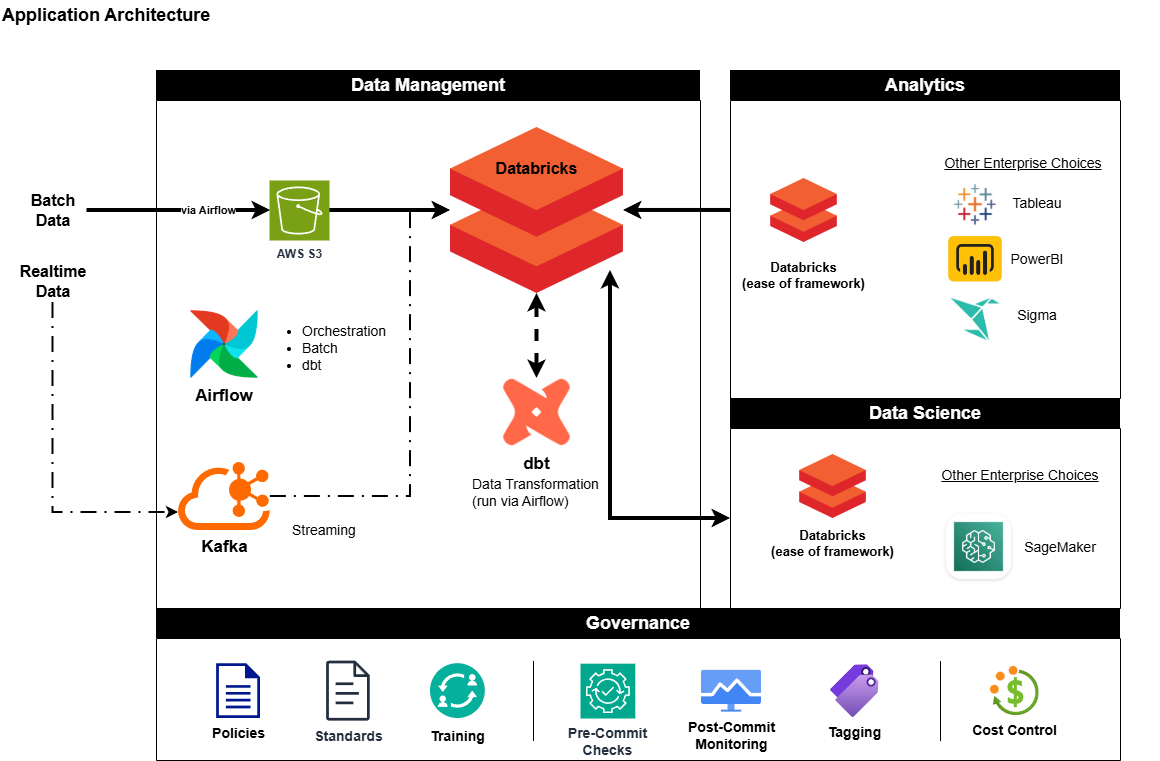
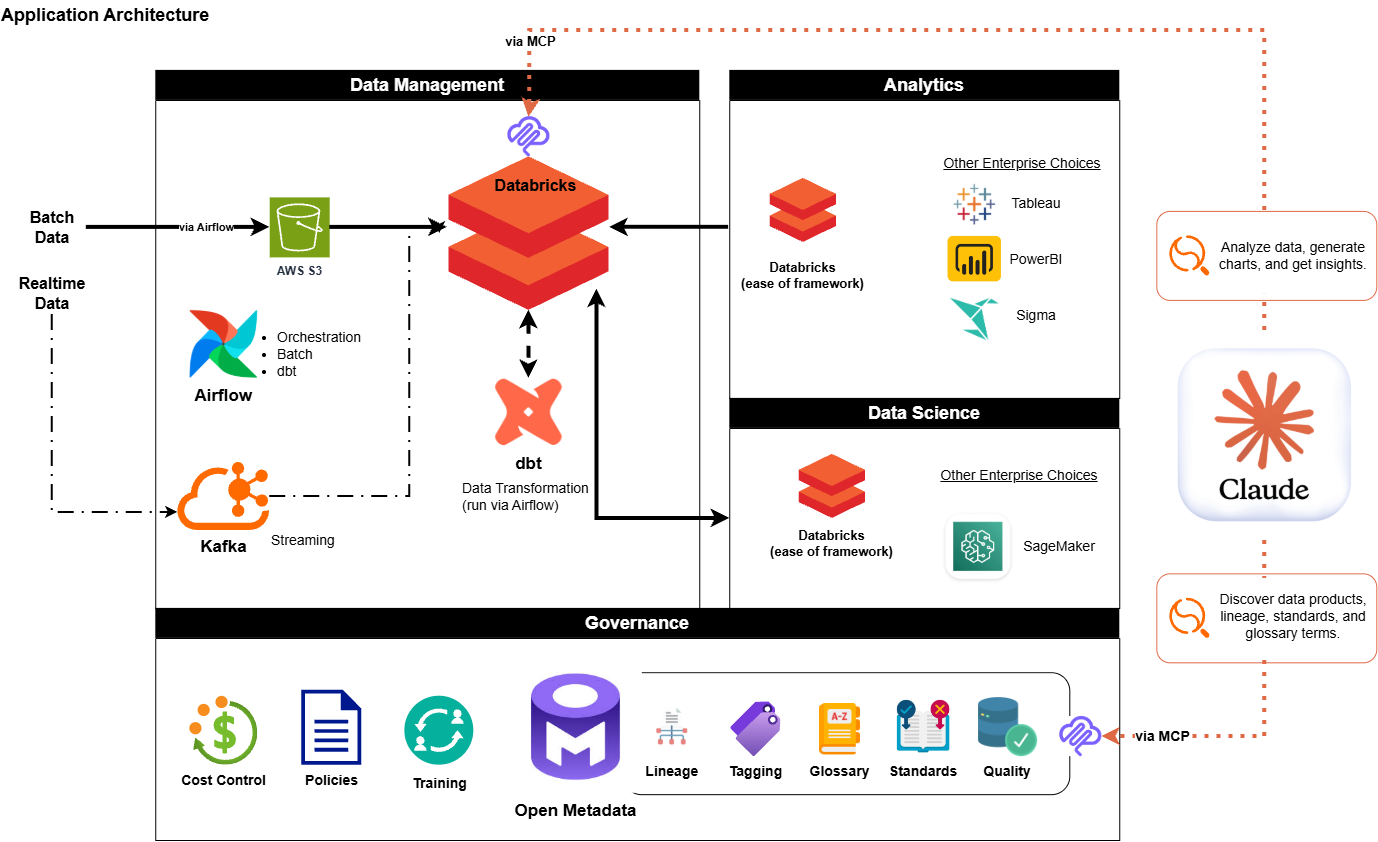
docs(github) Updates to security and added Claude
adding claude to architecture as it connects via mcp into open metadata and databricks.

diff --git a/docs/privacy-and-security.md b/docs/privacy-and-security.md
@@ -1,0 +1,261 @@
+# Privacy & Security
+
+This framework demonstrates security patterns at the architectural level while
+running on free-tier infrastructure. That combination creates real gaps, and
+they are documented here rather than implied away.
+
+The distinction that matters throughout: **controls that are implemented**,
+**controls that are designed but not implementable on the current tier**, and
+**controls that are genuinely absent**. An enterprise deployment must close the
+second and third categories before handling production data.
+
+---
+
+## Summary of Controls
+
+| Domain | Control | Status |
+|---|---|---|
+| Least privilege | Scoped IAM policies per identity, single bucket and prefix | Implemented |
+| Least privilege | Read-only access for the analytics platform | Implemented |
+| Least privilege | Medallion layers as separate catalogs, granted independently | Implemented |
+| Least privilege | Grants defined as code | Gap — no account API on free tier |
+| Credentials | No secrets in version control; scanning and pre-commit hooks | Implemented |
+| Credentials | No secrets in application code; connections referenced by ID | Implemented |
+| Credentials | No secrets in Terraform state; keys created out of band | Implemented |
+| Credentials | Assumed role with external ID for platform-to-storage access | Implemented |
+| Credentials | Finite token lifetimes | Implemented |
+| Credentials | Secrets manager with automated rotation | Gap — not yet adopted |
+| Network | No public ingress; all local services bound to the host | Implemented |
+| Network | S3 public access blocked, encrypted at rest, versioned | Implemented |
+| Network | IP allow-listing on the data platform | Gap — no network config on free tier |
+| Network | Private connectivity for warehouse traffic | Gap — enterprise tier only |
+| Identity | Token-based access with expiry, no passwords | Implemented |
+| Identity | Federated SSO through an identity provider | Gap — no IdP integration (expensive)|
+| Identity | Multi-factor authentication | Gap — single factor only |
+| Identity | Service principals for automation | Gap — unavailable on free tier |
+| Data protection | Classification applied as catalog metadata, through reviewed code | Implemented |
+| Data protection | Row-level lineage to source file and load time | Implemented |
+| Data protection | Encryption at rest and in transit | Implemented |
+| Data protection | Column masking, row filtering, tokenization | Gap — no sensitive data present |
+
+## Summary of Gaps
+
+Ordered by what an enterprise deployment must address first.
+
+| # | Gap | Cause | Resolution |
+|---|---|---|---|
+| 1 | No IdP or MFA | Local, single-operator | Federate through Okta or Entra ID |
+| 2 | Databricks open to any network | Free tier has no network config | IP access lists, PrivateLink |
+| 3 | Long-lived AWS keys | Docker has no cloud identity | Deploy to a platform with instance roles |
+| 4 | Human identity used for automation | No service principals on free tier | Service principal with OAuth |
+| 5 | No masking, filtering, or tokenization | No sensitive data present | Attach policies to existing tags |
+| 6 | Grants applied by hand | No account API on free tier | Databricks Terraform provider |
+| 7 | No secrets manager | Not yet adopted | Airflow secrets backend |
+| 8 | No credential rotation | Manual process | Scheduled rotation, short-lived tokens |
+
+**Nothing in this framework should handle production or personal data without
+resolving items 1 through 5.** The architectural patterns are sound and the
+governance metadata is in place. The enforcement layer is what is missing, and
+it is missing because the free tier does not expose it — not because it was
+overlooked.
+
+The sections below detail each domain.
+
+---
+
+## Least-Privilege Access
+
+Access is granted by function, not by convenience. Every identity in the
+framework holds the narrowest set of permissions that lets it do its job.
+
+### Implemented
+
+| Identity | Grants | Scope |
+|---|---|---|
+| Airflow → AWS | `GetObject`, `PutObject`, `ListBucket` | Landing prefixes of one bucket |
+| Databricks → AWS | `GetObject`, `GetObjectVersion`, `ListBucket` | Read-only, landing prefixes only |
+| Databricks compute | `USE CATALOG`, `USE SCHEMA`, `SELECT`, `MODIFY` | Named catalogs and schemas |
+| External locations | `READ FILES` | Scoped to a single S3 prefix |
+
+Two design choices reinforce this:
+
+- **`s3:ListBucket` is constrained by prefix condition**, not granted at bucket
+  scope. Listing is a bucket-level action in IAM, so a `StringLike` condition
+  on `s3:prefix` is the only way to narrow it.
+- **Medallion layers are separate catalogs** (`raw`, `transform`, `formal`).
+  Unity Catalog grants are per-catalog, which makes "consumers read `formal`
+  and nothing else" a single grant rather than a policy exercise.
+
+### Gap
+
+**Grants are applied by hand, not defined as code.** Unity Catalog objects are
+created by SQL run once, so there is no reviewable record of who was granted
+what and no drift detection. On a paid tier the Databricks Terraform provider
+would manage storage credentials, external locations, and grants alongside the
+AWS resources.
+
+**No role separation between human and automated identities.** A single
+personal identity performs both interactive analysis and pipeline execution,
+so audit logs cannot distinguish them.
+
+---
+
+## Credential Management
+
+### Implemented
+
+- **No secrets in version control.** `.gitignore` covers `.env`, `*.tfvars`,
+  `profiles.yml`, and `.databrickscfg`. `detect-secrets` and
+  `detect-private-key` run as pre-commit hooks, and GitHub secret scanning with
+  push protection is enabled on the repositories.
+- **No secrets in application code.** Connections are referenced by ID
+  (`aws_default`, `databricks_default`) and resolved at runtime. Credentials
+  never appear in a DAG, a model, or a log line.
+- **No secrets in Terraform state.** IAM access keys are deliberately not
+  managed by Terraform — an `aws_iam_access_key` resource writes the secret
+  into state in plaintext. Keys are created out of band.
+- **Assumed roles where the platform allows it.** Databricks reaches S3 through
+  an IAM role with an external ID condition. Nothing secret is exchanged; STS
+  issues short-lived credentials. The external ID prevents another tenant of
+  the same SaaS platform from naming the role ARN in their own workspace.
+- **Finite token lifetimes.** Databricks personal access tokens are issued with
+  an expiry rather than set to never expire.
+
+### Gap
+
+**Long-lived static credentials exist.** Airflow runs in local Docker, which
+has no cloud-native identity, so an IAM user with access keys is the only
+option available. Those keys sit in a `.env` file, do not rotate, and would
+work from anywhere if copied.
+
+The mitigation is scope, not elimination: the keys reach one bucket and two
+prefixes. The fix is deployment — on managed Airflow, EKS, or EC2, the user is
+deleted and an instance role takes its place with no code change.
+
+**No secrets manager.** Credentials are environment variables rather than
+values resolved from AWS Secrets Manager or Databricks secret scopes at
+runtime. Airflow supports a secrets backend natively; adopting one is a
+configuration change, not a redesign.
+
+**No automated rotation.** Key and token rotation is manual and unscheduled.
+
+---
+
+## Network & Application Access
+
+### Implemented
+
+- **No public exposure.** Airflow, Kafka, and the dbt tooling run entirely in
+  local Docker. Nothing listens on a public interface, and there is no ingress
+  path from the internet.
+- **S3 is closed by default.** Public access block is enabled on all four
+  settings, bucket policies grant no anonymous access, and server-side
+  encryption is enforced.
+- **Object versioning is enabled**, so an accidental overwrite or deletion is
+  recoverable.
+
+### Gap
+
+**Databricks is reachable from any network.** The workspace accepts
+authenticated connections from any source IP. In an enterprise deployment this
+is closed with **IP access lists**, restricting the workspace to corporate
+egress ranges and VPN exit points. Free Edition does not expose account-level
+network configuration, so the control cannot be applied here.
+
+The enterprise pattern would layer three things:
+
+1. **IP access lists** on the workspace — an allowlist of known egress CIDRs,
+   with an explicit denylist taking precedence.
+2. **Private connectivity** (PrivateLink or equivalent) so warehouse traffic
+   never traverses the public internet.
+3. **VPC endpoint policies** on S3, so the bucket is reachable only from the
+   expected network path regardless of what credentials are presented.
+
+**Local deployment is not a security control.** It limits exposure by
+accident — because nothing is deployed — rather than by design. A deployed
+version of this framework needs the network controls above from the first day,
+not retrofitted.
+
+---
+
+## Identity & Authentication
+
+### Implemented
+
+- **Local Airflow authentication is disabled deliberately**, not by oversight.
+  The stack is unreachable from outside the host, and a login screen on a
+  single-operator local container adds friction without adding protection.
+  This is documented as dev-only.
+- **GitHub access uses tokens with expiry**, not passwords.
+
+### Gap
+
+**No identity provider.** Authentication is per-application and locally
+managed. An enterprise deployment federates through an IdP — Okta, Entra ID,
+or equivalent — and that changes several properties at once:
+
+| Property | Today | With an IdP |
+|---|---|---|
+| Credential | Per-app token or password | Federated SSO |
+| MFA | None | Enforced centrally |
+| Provisioning | Manual | SCIM, group-driven |
+| Deprovisioning | Manual, per-app | Single revocation removes all access |
+| Audit | Per-app logs | Central sign-in log |
+
+Deprovisioning is the one that matters most. Without an IdP, revoking a
+departing user's access means remembering every system they touched. With one,
+it is a single action — and that difference is the reason IdP integration is
+not optional at enterprise scale.
+
+**No service principals.** Automation authenticates as a human identity
+because Free Edition provides no account console and therefore no service
+principals. Every pipeline action is attributed to a person in the audit log,
+and the credential dies with that person's account. Unity Catalog grants are
+already written as least-privilege, so substituting a service principal on a
+paid tier is a credential change rather than a redesign.
+
+**No MFA on the data platform.** A personal access token is a single factor.
+
+---
+
+## Data Classification & Protection
+
+### Implemented
+
+- **Classification is applied as catalog metadata.** Every `formal` dataset
+  carries governance tags — `informationClassification`,
+  `complianceClassification`, `legalHold`, `dataOwner`, `dataPrimacy` — applied
+  through dbt in a reviewed pull request rather than by hand in a console.
+  Tags are queryable through `system.information_schema.table_tags`, so
+  "what is classified how" is answerable in SQL.
+- **Lineage is traceable to the row.** Every record carries the source file and
+  load timestamp that produced it, so any value can be traced to its origin.
+- **Encryption at rest and in transit** is enabled on S3 and inherent to
+  Databricks-managed storage.
+
+### Gap
+
+**No anonymization, masking, or tokenization is implemented.** The datasets in
+this framework are entirely public — NYC TLC trip records and MTA transit
+feeds contain no personal data, and every dataset is classified `PUBLIC` with
+`complianceClassification` of `NONE`.
+
+This is an honest limitation rather than a deliberate omission: there is
+nothing here to protect, so the controls have nowhere to demonstrate
+themselves. An enterprise deployment handling personal data would need:
+
+- **Column masking** on sensitive fields, applied through Unity Catalog masking
+  functions so the control travels with the column rather than living in
+  each query
+- **Row filtering** so access to a table does not imply access to every row
+- **Tokenization or hashing** of direct identifiers before they reach the
+  `formal` layer
+- **Differential handling by classification** — the tagging taxonomy already
+  exists and is the natural place to drive these policies, since Unity Catalog
+  supports attribute-based access control keyed on tags
+- **Retention and right-to-erasure** procedures, which the
+  `dataDurationClassification` and `legalHold` tags anticipate but do not
+  enforce
+
+The tagging framework is deliberately built to carry these policies. It is the
+hook; the policies are not attached to it.

diff --git a/README.md b/README.md
@@ -1,22 +1,27 @@
-# Data and Analytics Reference Framework
+# Data and Analytics Reference Program
 
-Hub for a boilerplate data and analytics program spanning Governance, Data,
-Analytics, Data Science, and AI.
+Personal hub for a boilerplate enterprise data and analytics program spanning governance, data,
+analytics, data science/ML, and AI.
 
 ## Purpose
 
-A series of repositories containing working reference architectures for an
-enterprise-grade data and analytics program. It sits at the intersection of
-technology and operations, demonstrating infrastructure deployed with the
-governance and standards an enterprise would require.
+References for best practices and design recommendations in the operational lattice of a 
+Data & Analytics Program, especially useful when onboarding new teams and gap-comparing existing deployments.
 
-The emphasis is deliberately broad rather than deep, and **program-centric
-rather than performance-centric** — tagging, architecture decisions, naming,
-and standardization over throughput and optimization.
+Essentialy, it answers 'what does good look like'.
+
+The emphasis is deliberately broad, focusing on **Program** over **Performance**, though many architecture
+decisions support both.  The crititical focus is how various technology and operations knit together 
+in a Governed framework (e.g. consistent tags, definitions, and naming across technology).
 
 ## Audience
 
 Owners of data programs looking for a boiler-plate starter or comparative reference for their own deployments.
+
+## Privacy and Security
+
+See [Privacy and Security](docs/privacy-and-security.md) for details on what's been deployed and existing gaps
+(some are unavoidable due to Free Tier constraints).
 
 ## How to use
 
